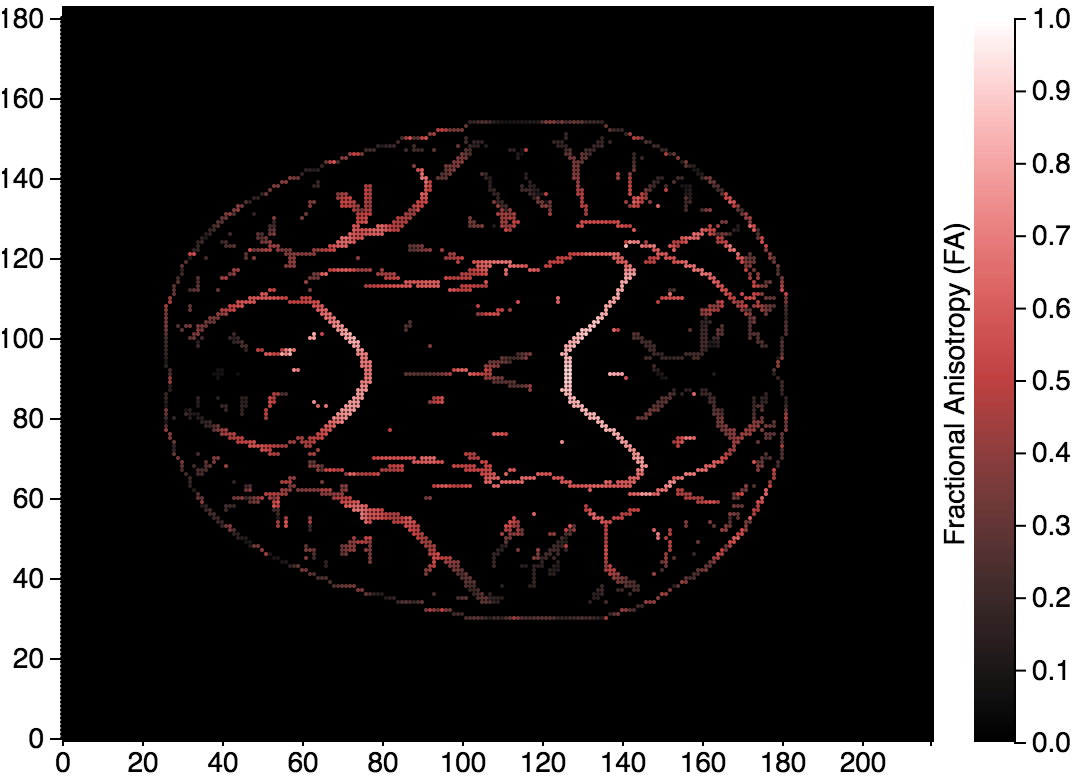
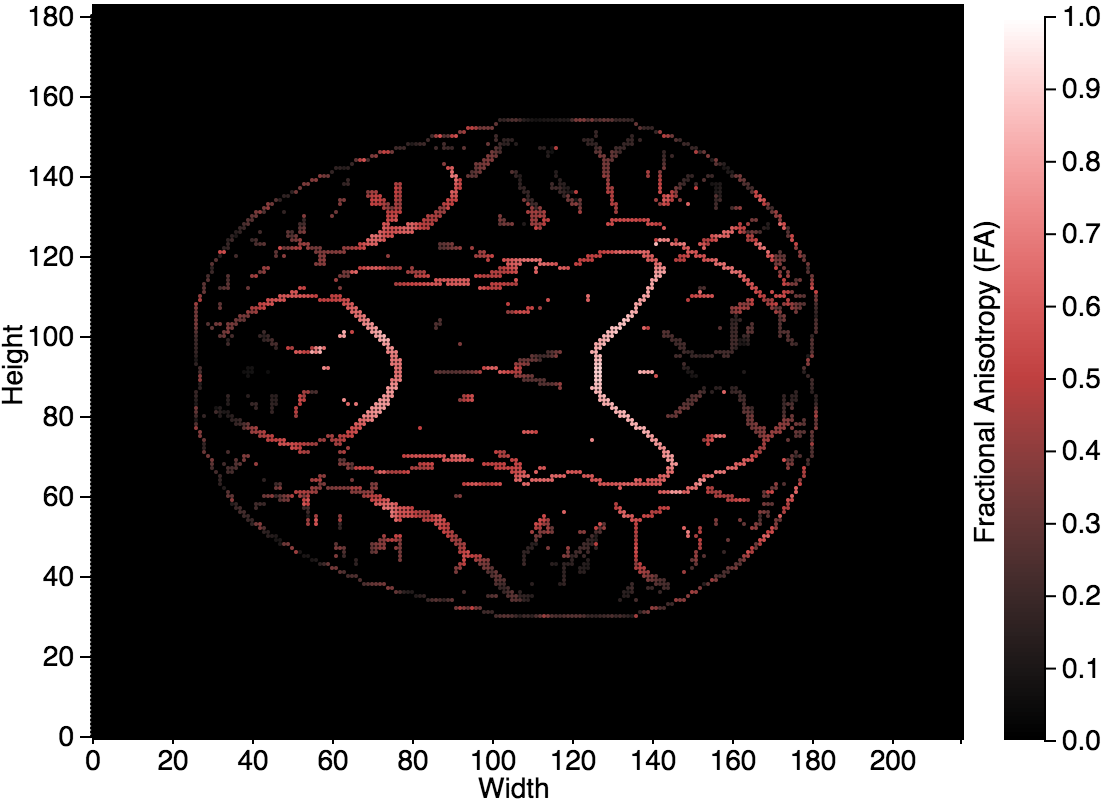
fix axis label

Changed region(s): [[0.1528, 0.1231, 0.7639, 0.8], [0.0, 0.0, 1.0, 1.0], [0.9472, 0.0, 1.0, 0.0308]]

diff --git a/hw1/d3_p3.html b/hw1/d3_p3.html
@@ -192,7 +192,7 @@ text {
         //log the pixels
         //render the canvas
         //Add an svg in the body with the size of (w,h)
-        var svg = d3.select('body').append('svg').attr('width',width*coef+30).attr('height',height*coef+30);
+        var svg = d3.select('body').append('svg').attr('width',width*coef+30+20).attr('height',height*coef+30+30);
                 //margin = 30,
                 //width = width*coef,
                 //height = height*coef;
@@ -200,13 +200,13 @@ text {
 
         console.log('done');
         //add an rgb figure into the svg file
-        rgb_node=svg.append('g').attr('class','nodes all').attr('transform','translate(30,0)');
+        rgb_node=svg.append('g').attr('class','nodes all').attr('transform','translate(50,0)');
 
         //set background to black
         rgb_node.append('rect').attr('width','100%').attr('height',height*coef+3*coef).attr('fill','black');
 
 
-        bar_svg=d3.select('body').append('svg').attr('width',40*coef).attr('height',height*coef+15).attr('height',height*coef+30);
+        bar_svg=d3.select('body').append('svg').attr('width',40*coef).attr('height',height*coef+30+30);
                 //margin = 30,
                 //width = 10*coef,
                 //height = height*coef;
@@ -286,6 +286,19 @@ text {
                 .attr('transform','translate(0,0)')
                 .call(yAxis)
                 .attr('transform','translate(0,'+coef*3+')');
+
+        //add text
+        rgb_node.append('text')
+                .attr('class','xlabel')
+                .attr('x',width*coef/2-25)
+                .attr('y',height*coef+35)
+                .text('Width');
+        rgb_node.append('text')
+                .attr('class','ylabel')
+                .attr('x',-height*coef/2-20)
+                .attr('y',-35)
+                .attr('transform','rotate(-90)')
+                .text('Height');
     });
 
     //var ls=d3.scaleLinear().domain([0,100]).range([0, 100]);

diff --git a/hw1/d3_p4.html b/hw1/d3_p4.html
@@ -193,7 +193,7 @@ text {
         //log the pixels
         //render the canvas
         //Add an svg in the body with the size of (w,h)
-        var svg = d3.select('body').append('svg').attr('width',width*coef+30).attr('height',height*coef+30);
+        var svg = d3.select('body').append('svg').attr('width',width*coef+30+20).attr('height',height*coef+30+30);
                 //margin = 30,
                 //width = width*coef,
                 //height = height*coef;
@@ -201,12 +201,12 @@ text {
 
         console.log('done');
         //add an rgb figure into the svg file
-        rgb_node=svg.append('g').attr('class','nodes all').attr('transform','translate(30,0)');
+        rgb_node=svg.append('g').attr('class','nodes all').attr('transform','translate(50,0)');
 
         //set background to black
         rgb_node.append('rect').attr('width','100%').attr('height',height*coef+3*coef).attr('fill','black');
 
-        bar_svg=d3.select('body').append('svg').attr('width',40*coef).attr('height',height*coef+15).attr('height',height*coef+30);
+        bar_svg=d3.select('body').append('svg').attr('width',40*coef).attr('height',height*coef+30+30);
                 //margin = 30,
                 //width = 10*coef,
                 //height = height*coef;
@@ -286,6 +286,19 @@ text {
                 .attr('transform','translate(0,0)')
                 .call(yAxis)
                 .attr('transform','translate(0,'+coef*3+')');
+
+        //add text
+        rgb_node.append('text')
+                .attr('class','xlabel')
+                .attr('x',width*coef/2-25)
+                .attr('y',height*coef+35)
+                .text('Width');
+        rgb_node.append('text')
+                .attr('class','ylabel')
+                .attr('x',-height*coef/2-20)
+                .attr('y',-35)
+                .attr('transform','rotate(-90)')
+                .text('Height');
     });
 
     //var ls=d3.scaleLinear().domain([0,100]).range([0, 100]);

diff --git a/hw1/d3_p2.html b/hw1/d3_p2.html
@@ -191,7 +191,7 @@ text {
         //log the pixels
         //render the canvas
         //Add an svg in the body with the size of (w,h)
-        var svg = d3.select('body').append('svg').attr('width',width*coef+30).attr('height',height*coef+30);
+        var svg = d3.select('body').append('svg').attr('width',width*coef+30+20).attr('height',height*coef+30+30);
                 //margin = 30,
                 //width = width*coef,
                 //height = height*coef;
@@ -199,11 +199,11 @@ text {
 
         console.log('done');
         //add an rgb figure into the svg file
-        rgb_node=svg.append('g').attr('class','nodes all').attr('transform','translate(30,0)');
+        rgb_node=svg.append('g').attr('class','nodes all').attr('transform','translate(50,0)');
         //set background to black
         rgb_node.append('rect').attr('width','100%').attr('height',height*coef+3*coef).attr('fill','black');
 
-        bar_svg=d3.select('body').append('svg').attr('width',40*coef).attr('height',height*coef+15).attr('height',height*coef+30);
+        bar_svg=d3.select('body').append('svg').attr('width',40*coef).attr('height',height*coef+30+30);
                 //margin = 30,
                 //width = 10*coef,
                 //height = height*coef;
@@ -280,6 +280,19 @@ text {
                 .attr('transform','translate(0,0)')
                 .call(yAxis)
                 .attr('transform','translate(0,'+coef*3+')');
+
+        //add text
+        rgb_node.append('text')
+                .attr('class','xlabel')
+                .attr('x',width*coef/2-25)
+                .attr('y',height*coef+35)
+                .text('Width');
+        rgb_node.append('text')
+                .attr('class','ylabel')
+                .attr('x',-height*coef/2-20)
+                .attr('y',-35)
+                .attr('transform','rotate(-90)')
+                .text('Height');
 
     });
 

diff --git a/hw1/d3_p0.html b/hw1/d3_p0.html
@@ -187,15 +187,15 @@ text {
         //log the pixels
         //render the canvas
         //Add an svg in the body with the size of (w,h)
-        var svg = d3.select('body').append('svg').attr('width',width*coef+30).attr('height',height*coef+30);
+        var svg = d3.select('body').append('svg').attr('width',width*coef+30+20).attr('height',height*coef+30+30);
                 //margin = 30,
                 //width = width*coef,
                 //height = height*coef;
         console.log('done');
         //add an rgb figure into the svg file
-        rgb_node=svg.append('g').attr('class','nodes all').attr('transform','translate(30,0)');
+        rgb_node=svg.append('g').attr('class','nodes all').attr('transform','translate(50,0)');
 
-        bar_svg=d3.select('body').append('svg').attr('width',40*coef).attr('height',height*coef+15).attr('height',height*coef+30);
+        bar_svg=d3.select('body').append('svg').attr('width',40*coef).attr('height',height*coef+30+30);
                 //margin = 30,
                 //width = 10*coef,
                 //height = height*coef;
@@ -263,6 +263,20 @@ text {
                 .attr('transform','translate(0,0)')
                 .call(yAxis)
                 .attr('transform','translate(0,'+coef*3+')');
+
+        //add text
+        rgb_node.append('text')
+                .attr('class','xlabel')
+                .attr('x',width*coef/2-25)
+                .attr('y',height*coef+35)
+                .text('Width');
+        rgb_node.append('text')
+                .attr('class','ylabel')
+                .attr('x',-height*coef/2-20)
+                .attr('y',-35)
+                .attr('transform','rotate(-90)')
+                .text('Height');
+
     });
 
     //var ls=d3.scaleLinear().domain([0,100]).range([0, 100]);

diff --git a/hw1/d3_p1.html b/hw1/d3_p1.html
@@ -191,15 +191,15 @@ text {
         //log the pixels
         //render the canvas
         //Add an svg in the body with the size of (w,h)
-        var svg = d3.select('body').append('svg').attr('width',width*coef+30).attr('height',height*coef+30);
+        var svg = d3.select('body').append('svg').attr('width',width*coef+30+20).attr('height',height*coef+30+30);
                 //margin = 30,
                 //width = width*coef,
                 //height = height*coef;
         console.log('done');
         //add an rgb figure into the svg file
-        rgb_node=svg.append('g').attr('class','nodes all').attr('transform','translate(30,0)');
+        rgb_node=svg.append('g').attr('class','nodes all').attr('transform','translate(50,0)');
 
-        bar_svg=d3.select('body').append('svg').attr('width',40*coef+30).attr('height',height*coef+30);
+        bar_svg=d3.select('body').append('svg').attr('width',40*coef+30).attr('height',height*coef+30+30);
                 //margin = 30,
                 //width = 10*coef,
                 //height = height*coef;
@@ -267,6 +267,19 @@ text {
                 .attr('transform','translate(0,0)')
                 .call(yAxis)
                 .attr('transform','translate(0,'+coef*3+')');
+
+        //add text
+        rgb_node.append('text')
+                .attr('class','xlabel')
+                .attr('x',width*coef/2-25)
+                .attr('y',height*coef+35)
+                .text('Width');
+        rgb_node.append('text')
+                .attr('class','ylabel')
+                .attr('x',-height*coef/2-20)
+                .attr('y',-35)
+                .attr('transform','rotate(-90)')
+                .text('Height');
 
     });
 
